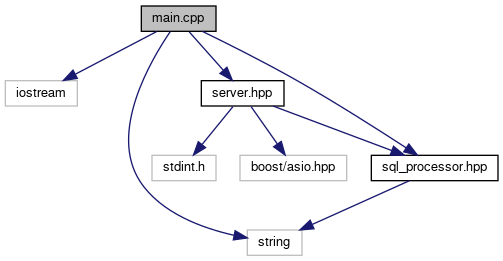
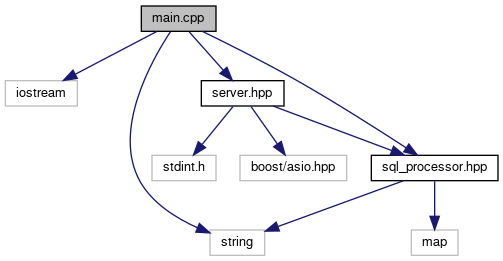
deploy: f3b2c666665a8c7beed830852822e3943168d742

diff --git a/sql__processor_8hpp_source.html b/sql__processor_8hpp_source.html
@@ -68,19 +68,28 @@ $(function() {
 <a href="sql__processor_8hpp.html">Go to the documentation of this file.</a><div class="fragment"><div class="line"><a name="l00001"></a><span class="lineno">    1</span>&#160;<span class="preprocessor">#pragma once</span></div>
 <div class="line"><a name="l00002"></a><span class="lineno">    2</span>&#160; </div>
 <div class="line"><a name="l00003"></a><span class="lineno">    3</span>&#160;<span class="preprocessor">#include &lt;string&gt;</span></div>
-<div class="line"><a name="l00004"></a><span class="lineno">    4</span>&#160; </div>
-<div class="line"><a name="l00008"></a><span class="lineno">    8</span>&#160;<span class="keyword">class </span><a class="code" href="class_sql_processor.html">SqlProcessor</a></div>
-<div class="line"><a name="l00009"></a><span class="lineno">    9</span>&#160;{</div>
-<div class="line"><a name="l00010"></a><span class="lineno">   10</span>&#160;<span class="keyword">public</span>:</div>
-<div class="line"><a name="l00011"></a><span class="lineno">   11</span>&#160; </div>
-<div class="line"><a name="l00012"></a><span class="lineno"><a class="line" href="class_sql_processor.html#a4b9749ecb6427d6d4e11d53c5e0f4dff">   12</a></span>&#160;    <a class="code" href="class_sql_processor.html#a4b9749ecb6427d6d4e11d53c5e0f4dff">SqlProcessor</a>() = <span class="keywordflow">default</span>;</div>
-<div class="line"><a name="l00013"></a><span class="lineno"><a class="line" href="class_sql_processor.html#ab78de1b4bca441e0469538293e130487">   13</a></span>&#160;    <span class="keyword">virtual</span> <a class="code" href="class_sql_processor.html#ab78de1b4bca441e0469538293e130487">~SqlProcessor</a>() = <span class="keywordflow">default</span>;</div>
-<div class="line"><a name="l00014"></a><span class="lineno">   14</span>&#160; </div>
-<div class="line"><a name="l00015"></a><span class="lineno">   15</span>&#160;    <span class="keywordtype">void</span> <a class="code" href="class_sql_processor.html#a9545502958bcf609227dce3af7ac7db1">ProcessRequest</a>(<span class="keyword">const</span> std::string&amp; request);</div>
-<div class="line"><a name="l00016"></a><span class="lineno">   16</span>&#160;};</div>
+<div class="line"><a name="l00004"></a><span class="lineno">    4</span>&#160;<span class="preprocessor">#include &lt;map&gt;</span></div>
+<div class="line"><a name="l00005"></a><span class="lineno">    5</span>&#160; </div>
+<div class="line"><a name="l00009"></a><span class="lineno">    9</span>&#160;<span class="keyword">class </span><a class="code" href="class_sql_processor.html">SqlProcessor</a></div>
+<div class="line"><a name="l00010"></a><span class="lineno">   10</span>&#160;{</div>
+<div class="line"><a name="l00011"></a><span class="lineno">   11</span>&#160;<span class="keyword">public</span>:</div>
+<div class="line"><a name="l00012"></a><span class="lineno">   12</span>&#160; </div>
+<div class="line"><a name="l00013"></a><span class="lineno"><a class="line" href="class_sql_processor.html#a4b9749ecb6427d6d4e11d53c5e0f4dff">   13</a></span>&#160;    <a class="code" href="class_sql_processor.html#a4b9749ecb6427d6d4e11d53c5e0f4dff">SqlProcessor</a>() = <span class="keywordflow">default</span>;</div>
+<div class="line"><a name="l00014"></a><span class="lineno"><a class="line" href="class_sql_processor.html#ab78de1b4bca441e0469538293e130487">   14</a></span>&#160;    <span class="keyword">virtual</span> <a class="code" href="class_sql_processor.html#ab78de1b4bca441e0469538293e130487">~SqlProcessor</a>() = <span class="keywordflow">default</span>;</div>
+<div class="line"><a name="l00015"></a><span class="lineno">   15</span>&#160; </div>
+<div class="line"><a name="l00016"></a><span class="lineno">   16</span>&#160;    <span class="keywordtype">void</span> <a class="code" href="class_sql_processor.html#a9545502958bcf609227dce3af7ac7db1">ProcessRequest</a>(<span class="keyword">const</span> std::string&amp; request);</div>
+<div class="line"><a name="l00017"></a><span class="lineno">   17</span>&#160; </div>
+<div class="line"><a name="l00018"></a><span class="lineno">   18</span>&#160;<span class="keyword">private</span>:</div>
+<div class="line"><a name="l00019"></a><span class="lineno">   19</span>&#160; </div>
+<div class="line"><a name="l00020"></a><span class="lineno">   20</span>&#160;     std::map&lt;int, std::string&gt; table_a_;</div>
+<div class="line"><a name="l00021"></a><span class="lineno">   21</span>&#160;     std::map&lt;int, std::string&gt; table_b_;</div>
+<div class="line"><a name="l00022"></a><span class="lineno">   22</span>&#160; </div>
+<div class="line"><a name="l00023"></a><span class="lineno">   23</span>&#160;     <span class="keyword">static</span> constexpr <span class="keyword">auto</span> ok_ = <span class="stringliteral">&quot;OK&quot;</span>;</div>
+<div class="line"><a name="l00024"></a><span class="lineno">   24</span>&#160;     <span class="keyword">static</span> constexpr <span class="keyword">auto</span> err_ = <span class="stringliteral">&quot;ERR&quot;</span>;</div>
+<div class="line"><a name="l00025"></a><span class="lineno">   25</span>&#160;};</div>
 <div class="ttc" id="aclass_sql_processor_html"><div class="ttname"><a href="class_sql_processor.html">SqlProcessor</a></div><div class="ttdef"><b>Definition:</b> commands_processor.hpp:54</div></div>
 <div class="ttc" id="aclass_sql_processor_html_a4b9749ecb6427d6d4e11d53c5e0f4dff"><div class="ttname"><a href="class_sql_processor.html#a4b9749ecb6427d6d4e11d53c5e0f4dff">SqlProcessor::SqlProcessor</a></div><div class="ttdeci">SqlProcessor()=default</div></div>
-<div class="ttc" id="aclass_sql_processor_html_a9545502958bcf609227dce3af7ac7db1"><div class="ttname"><a href="class_sql_processor.html#a9545502958bcf609227dce3af7ac7db1">SqlProcessor::ProcessRequest</a></div><div class="ttdeci">void ProcessRequest(const std::string &amp;request)</div><div class="ttdef"><b>Definition:</b> sql_processor.cpp:3</div></div>
+<div class="ttc" id="aclass_sql_processor_html_a9545502958bcf609227dce3af7ac7db1"><div class="ttname"><a href="class_sql_processor.html#a9545502958bcf609227dce3af7ac7db1">SqlProcessor::ProcessRequest</a></div><div class="ttdeci">void ProcessRequest(const std::string &amp;request)</div><div class="ttdef"><b>Definition:</b> sql_processor.cpp:6</div></div>
 <div class="ttc" id="aclass_sql_processor_html_ab78de1b4bca441e0469538293e130487"><div class="ttname"><a href="class_sql_processor.html#ab78de1b4bca441e0469538293e130487">SqlProcessor::~SqlProcessor</a></div><div class="ttdeci">virtual ~SqlProcessor()=default</div></div>
 </div><!-- fragment --></div><!-- contents -->
 <!-- start footer part -->

diff --git a/sql__processor_8cpp.html b/sql__processor_8cpp.html
@@ -66,14 +66,19 @@ $(function() {
 </div><!--header-->
 <div class="contents">
 <div class="textblock"><code>#include &quot;<a class="el" href="sql__processor_8hpp_source.html">sql_processor.hpp</a>&quot;</code><br />
+<code>#include &lt;iostream&gt;</code><br />
+<code>#include &lt;sstream&gt;</code><br />
 </div><div class="textblock"><div class="dynheader">
 Include dependency graph for sql_processor.cpp:</div>
 <div class="dyncontent">
 <div class="center"><img src="sql__processor_8cpp__incl.png" border="0" usemap="#asql__processor_8cpp" alt=""/></div>
 <map name="asql__processor_8cpp" id="asql__processor_8cpp">
-<area shape="rect" title=" " alt="" coords="5,5,132,32"/>
-<area shape="rect" href="sql__processor_8hpp.html" title=" " alt="" coords="5,80,132,107"/>
-<area shape="rect" title=" " alt="" coords="41,155,96,181"/>
+<area shape="rect" title=" " alt="" coords="131,5,257,32"/>
+<area shape="rect" href="sql__processor_8hpp.html" title=" " alt="" coords="7,80,133,107"/>
+<area shape="rect" title=" " alt="" coords="158,80,230,107"/>
+<area shape="rect" title=" " alt="" coords="254,80,323,107"/>
+<area shape="rect" title=" " alt="" coords="5,155,60,181"/>
+<area shape="rect" title=" " alt="" coords="84,155,131,181"/>
 </map>
 </div>
 </div></div><!-- contents -->

diff --git a/sql__processor_8hpp.html b/sql__processor_8hpp.html
@@ -68,13 +68,15 @@ $(function() {
 </div><!--header-->
 <div class="contents">
 <div class="textblock"><code>#include &lt;string&gt;</code><br />
+<code>#include &lt;map&gt;</code><br />
 </div><div class="textblock"><div class="dynheader">
 Include dependency graph for sql_processor.hpp:</div>
 <div class="dyncontent">
 <div class="center"><img src="sql__processor_8hpp__incl.png" border="0" usemap="#asql__processor_8hpp" alt=""/></div>
 <map name="asql__processor_8hpp" id="asql__processor_8hpp">
-<area shape="rect" title=" " alt="" coords="5,5,132,32"/>
-<area shape="rect" title=" " alt="" coords="41,80,96,107"/>
+<area shape="rect" title=" " alt="" coords="7,5,133,32"/>
+<area shape="rect" title=" " alt="" coords="5,80,60,107"/>
+<area shape="rect" title=" " alt="" coords="84,80,131,107"/>
 </map>
 </div>
 </div><div class="textblock"><div class="dynheader">

diff --git a/main_8cpp.html b/main_8cpp.html
@@ -78,11 +78,12 @@ Include dependency graph for main.cpp:</div>
 <map name="amain_8cpp" id="amain_8cpp">
 <area shape="rect" title=" " alt="" coords="141,5,216,32"/>
 <area shape="rect" title=" " alt="" coords="5,80,77,107"/>
-<area shape="rect" title=" " alt="" coords="247,229,302,256"/>
+<area shape="rect" title=" " alt="" coords="210,229,265,256"/>
 <area shape="rect" href="server_8hpp.html" title=" " alt="" coords="201,80,284,107"/>
 <area shape="rect" href="sql__processor_8hpp.html" title=" " alt="" coords="371,155,498,181"/>
 <area shape="rect" title=" " alt="" coords="152,155,216,181"/>
 <area shape="rect" title=" " alt="" coords="240,155,347,181"/>
+<area shape="rect" title=" " alt="" coords="411,229,458,256"/>
 </map>
 </div>
 </div><table class="memberdecls">

diff --git a/server_8hpp.html b/server_8hpp.html
@@ -79,7 +79,8 @@ Include dependency graph for server.hpp:</div>
 <area shape="rect" title=" " alt="" coords="5,80,69,107"/>
 <area shape="rect" title=" " alt="" coords="93,80,200,107"/>
 <area shape="rect" href="sql__processor_8hpp.html" title=" " alt="" coords="225,80,351,107"/>
-<area shape="rect" title=" " alt="" coords="261,155,315,181"/>
+<area shape="rect" title=" " alt="" coords="223,155,278,181"/>
+<area shape="rect" title=" " alt="" coords="302,155,349,181"/>
 </map>
 </div>
 </div><div class="textblock"><div class="dynheader">

diff --git a/server_8cpp.html b/server_8cpp.html
@@ -83,7 +83,8 @@ Include dependency graph for server.cpp:</div>
 <area shape="rect" title=" " alt="" coords="499,80,557,107"/>
 <area shape="rect" title=" " alt="" coords="5,155,69,181"/>
 <area shape="rect" href="sql__processor_8hpp.html" title=" " alt="" coords="94,155,221,181"/>
-<area shape="rect" title=" " alt="" coords="130,229,185,256"/>
+<area shape="rect" title=" " alt="" coords="93,229,147,256"/>
+<area shape="rect" title=" " alt="" coords="171,229,218,256"/>
 </map>
 </div>
 </div></div><!-- contents -->
